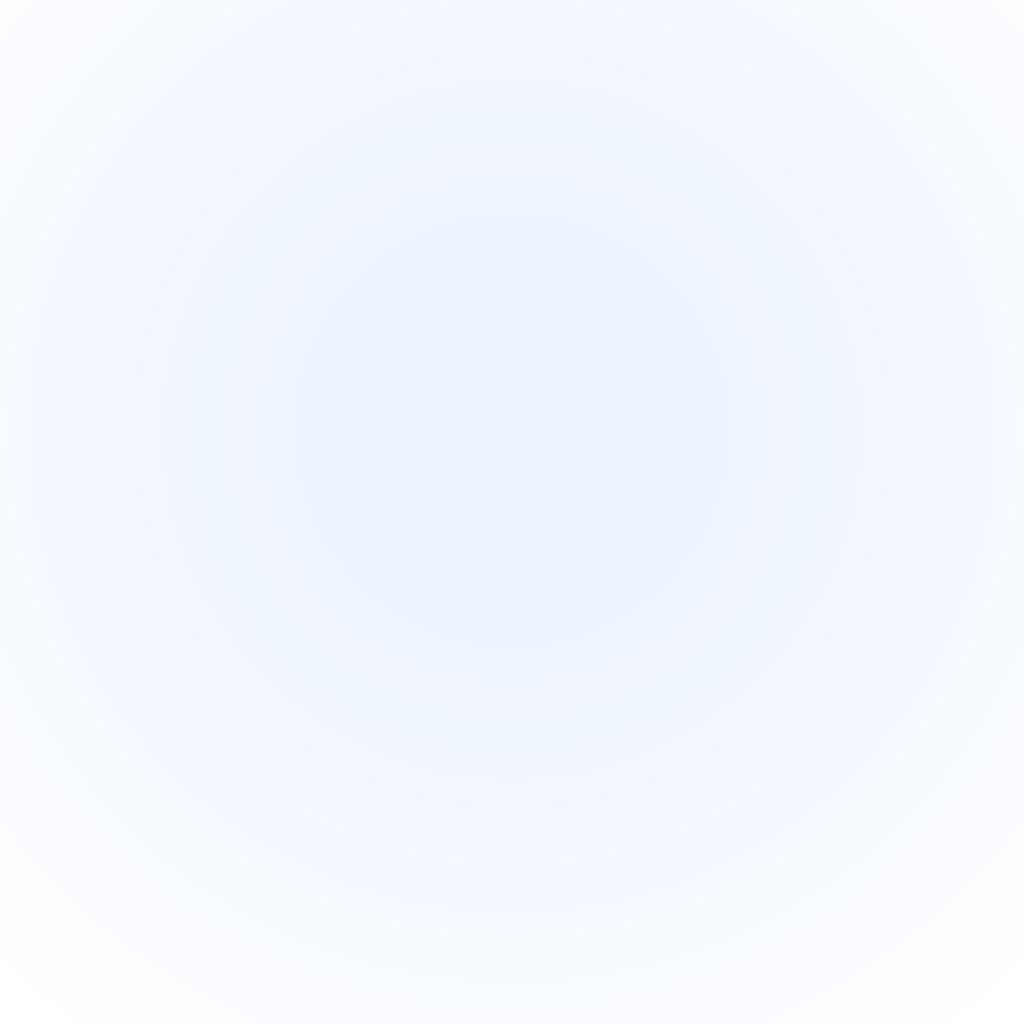
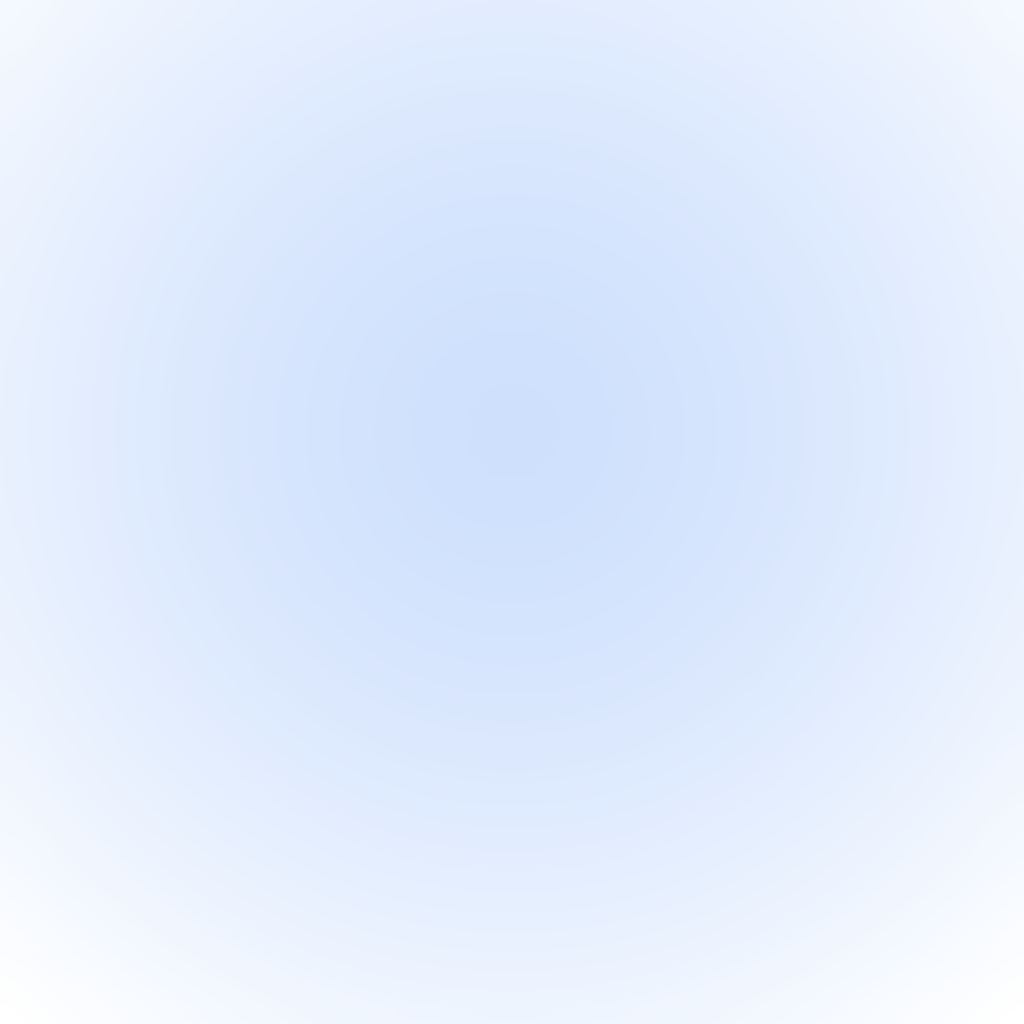
feat(background): 重制背景渐变让玻璃层次可读
- gradient 底部 (228,236,251) → (186,208,244), 提高品牌蓝饱和度
- glow 峰值 alpha 26→64, showcase 叠加 0.15→0.25
- theme.background 清屏色同步新渐变顶部色
- R2 计划补录 Task 6.5

Changed region(s): [[0.25, 0.1875, 0.75, 0.6562]]

diff --git a/tools/export-background.py b/tools/export-background.py
@@ -23,9 +23,11 @@ OUT_DIR = REPO_ROOT / "assets" / "background"
 # Brand accent #3B82F6, same as LightTheme::accent().
 ACCENT = (59, 130, 246)
 
-# Gradient endpoints: very light blue-white to a slightly deeper blue-tinted grey.
-TOP = (247, 249, 254)
-BOTTOM = (228, 236, 251)
+# Gradient endpoints: light blue-white to a clearly blue-tinted base.
+# The bottom needs enough saturation/darkness for translucent glass cards
+# (white at ~0.72 alpha) to read as glass rather than flat white.
+TOP = (240, 245, 253)
+BOTTOM = (186, 208, 244)
 
 # Canvas size for the gradient / glow. 1024 is large enough to look smooth
 # when scaled with Cover on typical window sizes.
@@ -83,7 +85,9 @@ def generate_glow() -> Image.Image:
         t = i / steps
         radius = max_radius * t
         # Ease-out falloff: opacity peaks at center and drops quickly.
-        alpha = int(26 * (1.0 - t**1.5))
+        # Peak alpha 64: strong enough for the brand glow to survive the
+        # 0.25 overlay opacity and remain visible behind glass cards.
+        alpha = int(64 * (1.0 - t**1.5))
         if alpha <= 1:
             continue
         color = (*ACCENT, alpha)

diff --git a/examples/showcase.rs b/examples/showcase.rs
@@ -552,7 +552,7 @@ fn main() -> anyhow::Result<()> {
     let t = theme();
     let background = BackgroundConfig::with_image("assets/background/gradient.png")
         .scale(ScaleMode::Cover)
-        .with_glow("assets/background/glow.png", 0.15)
+        .with_glow("assets/background/glow.png", 0.25)
         .with_noise("assets/background/noise.png", 0.06);
     let config = danqing::WindowConfig {
         clear_color: t.background(),

diff --git a/src/theme.rs b/src/theme.rs
@@ -115,7 +115,7 @@ pub struct LightTheme;
 impl Theme for LightTheme {
     fn background(&self) -> Color {
         // 与背景渐变 top 色一致的 fallback 清屏色。
-        Color::from_srgb8(247, 249, 254)
+        Color::from_srgb8(240, 245, 253)
     }
 
     fn surface(&self) -> Color {

diff --git a/tasks/plan-phase1-visual-remediation-r2.md b/tasks/plan-phase1-visual-remediation-r2.md
@@ -97,6 +97,10 @@
 - [ ] `cargo test --lib --tests` 全绿；`cargo clippy -- -D warnings` 零警告。
 - [ ] 人工确认：卡片透出背景、标题栏融入顶部、多行卡片无接缝。
 
+- [x] **Task 6.5: 重制背景渐变让玻璃可读** ✅ 2026-07-22（视觉终审后补入）
+  - **Description:** T3 完成后 surface 半透明已生效，但 gradient.png 顶部 (247,249,254) → 底部 (228,236,251) 整体过淡，72% 白叠 98% 白肉眼无法分辨玻璃。重制背景资产提高饱和度与起伏。
+  - **完成记录：** `tools/export-background.py` 顶部改 (240,245,253)、底部改 (186,208,244)，光晕峰值 alpha 26→64;showcase glow 叠加 0.15→0.25;`theme.background()` 清屏色同步新顶部色。截屏自验（`tools/capture-screen.ps1`）：层次与品牌蓝氛围可读，深色文字在全幅背景上仍清晰。
+
 ### Phase 3: 收尾
 
 - [x] **Task 6: 排版清理** ✅ 2026-07-22
